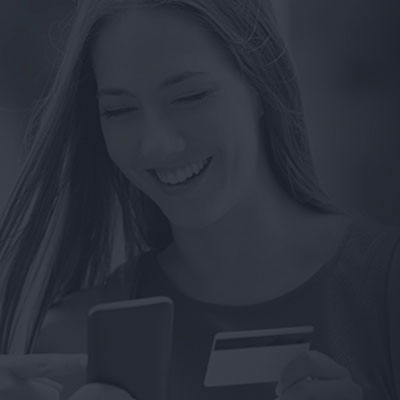
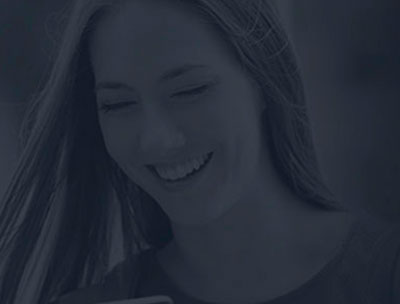
pagina homolga, alterações home

diff --git a/homologa.html b/homologa.html
@@ -19,7 +19,7 @@
 
 
 
-    <title>Cappta</title>
+    <title>Homologa</title>
 </head>
 
 <body>
@@ -85,7 +85,7 @@
                             <div class="dropdown-menu" aria-labelledby="navbarDropdown">
                                 <a class="dropdown-item ml-2" href="portal-de-vendas.html">Portal de vendas</a>
                                 <a class="dropdown-item ml-2" href="reduzir-taxas.html">Redução de taxas</a>
-                                <a class="dropdown-item ml-2" href="homologa.html">Homologue seu software</a>
+                                <a class="dropdown-item ml-2" href="#">Homologue seu software</a>
                                 <a class="dropdown-item ml-2" href="ativa.html">Ativação de Bandeiras</a>
                                 <a class="dropdown-item ml-2" href="amigo.html">Amigo Cappta Amigo</a>
                             </div>
@@ -173,7 +173,7 @@
                                 <a class="dropdown-item" href="reduzir-taxas.html"><i class="fas fa-caret-right mr-3 text-success"></i>Redução
                                     de taxas</a>
 
-                                <a class="dropdown-item" href="homologa.html"><i class="fas fa-caret-right mr-3 text-success"></i>Homologue
+                                <a class="dropdown-item" href="#"><i class="fas fa-caret-right mr-3 text-success"></i>Homologue
                                     seu software</a>
 
                                 <a class="dropdown-item" href="ativa.html"><i class="fas fa-caret-right mr-3 text-success"></i>Ativação
@@ -214,165 +214,132 @@
         </nav>
 
     </header>
-
     <main>
-
-        <section class="bg-dark" style="background-image: url('images/bg-video.jpg'); background-size: cover; background-attachment: fixed; background-position: left;">
-            <div class="container">
+        <section class="bg-dark" style="background-image: url('images/slider-homologa-1.jpg'); background-size: cover; background-attachment: fixed; background-position: left;">
+            <div class="container" style="padding: 100px 20px;">
                 <div class="row">
                     <div class="col-lg-5 text-left text-md-center text-lg-left my-auto" data-aos="fade-up" data-aos-duration="600" style="padding: 100px 20px;">
-                        <h1 class="text-white">Soluções integradas de pagamento</h1>
-                        <p class="lead text-white mb-4 mt-4">Capture suas vendas em cartão com a empresa que mudou o
-                            mercado!</p>
+                        <h1 class="text-white">Homologue seu Software</h1>
+                        <p class="lead text-white mb-4 mt-4">A integração mais rápida do mercado!</p>
                         <a class="btn btn-success">Saiba mais</a>
 
                     </div>
-                    <div class="offset-lg-1 col-lg-5 text-left text-md-center text-lg-left d-none d-lg-flex flex-lg-column" data-aos="fade-left" data-aos-duration="600" style="padding-top: 120px;">
-                        <img src="images/representante.png" class="img-fluid">
-                    </div>
                 </div>
             </div>
-
         </section>
 
-        <section id="menu-servicos">
+        <section>
             <div class="container">
-                <div class="col-lg-12">
-                    <div class="menu-float-servicos" data-aos="fade-down" data-aos-anchor-placement="top-bottom"
-                        data-aos-duration="600">
-                        <div class="card bg-success d-none d-md-flex">
-                            <div class="card-body">
-                                <div class="row">
-                                    <div class="col-lg-3 ml-5 offset-md-0 col-md-12 m-0">
-                                        <h4 class="text-primary">Temos a soluçao ideal para o seu negócio!</h4>
-                                    </div>
-                                    <div class="col-lg-8 d-lg-flex justify-content-lg-end my-auto col-md-12">
-                                        <div class="btn btn-primary mr-1">Faturo abaixo de 50 mil</div>
-                                        <div class="btn btn-primary mr-1">Faturo acima de 50 mil</div>
-                                        <div class="btn btn-primary mr-1">Tenho uma rede de lojas</div>
-                                    </div>
-                                </div>
-
-                            </div>
-                        </div>
+                <div class="row" style="padding: 100px 10px;" data-aos="fade-up" data-aos-duration="600">
+                    <div class="col-lg-12">
+                        <h2 class="mb-4">Eficiência para o seu cliente</h2>
+                        <p><i class="fa fa-check mr-3 text-success"></i>Instalação rápida (instalador integrado)</p>
+                        <p><i class="fa fa-check mr-3 text-success"></i>Conexão independente entre PDVs e Data center</p>
+                        <p><i class="fa fa-check mr-3 text-success"></i>Atualizações automáticas das versões do aplicativo,datacenter e bandeiras e operadoras.</p>
+                        <p><i class="fa fa-check mr-3 text-success"></i>Suporte integrado ao aplicativo.</p>
+                        <p><i class="fa fa-check mr-3 text-success"></i>Conciliação via portal ou API</p>
+                        <p><i class="fa fa-check mr-3 text-success"></i>E muitos outros diferenciais.</p>
                     </div>
                 </div>
             </div>
         </section>
 
-        <section id="intro" class="bg-light">
-            <div class="container d-flex flex-row align-items-center " style="padding: 150px 20px;">
-                <div id="carousel1" class="owl-carousel owl-theme">
-                    <div class="card-item" data-aos="fade-up" data-aos-duration="600">
-                        <div class="row">
-                            <div class="offset-lg-1 col-lg-4 offset-md-2 col-md-8 text-center text-lg-left text-md-center  my-auto order-2 order-md-2 order-lg-1">
-                                <h3 class="card-title text-primary mt-4">Quem somos</h3>
-                                <p class="card-text">Automatize as vendas em cartão, facilite a sua conciliação e
-                                    economize tempo na hora de fechar o caixa!</p>
-                                <a href="#" class="btn btn-success align-items-md-center">Saiba mais</a>
-                            </div>
-                            <div class=" offset-lg-1 col-lg-6 offset-md-2 col-md-8 my-auto order-md-1 order-lg-2 d-block d-md-block d-lg-block order-1 order-md-1 order-lg-2">
-                                <img src="images/intro-img.jpg" class="img-fluid">
-                            </div>
-                        </div>
+        <section class="bg-light">
+            <div class="container">
+                <div class="row" style="padding: 100px 0;" data-aos="fade-up" data-aos-duration="600">
+                    <div class="offset-lg-2 col-lg-8 text-center mb-3">
+                        <h2 class="mb-3 text-primary">Infraestrutura Cappta</h2>
+                        <p>Nossa Tecnologia foi desenhada para que o parceiro não precise para administrar seus clientes de meios de pagamento.</p>
                     </div>
-
-                    <div class="card-item" data-aos="fade-up" data-aos-duration="600">
-                        <div class="row">
-                            <div class="offset-lg-1 col-lg-4 offset-md-2 col-md-8 my-auto text-lg-left text-md-center order-2 order-md-2 order-lg-1">
-                                <h3 class="card-title text-primary mt-4">O que fazemos</h3>
-                                <p class="card-text">Automatize as vendas em cartão, facilite a sua conciliação e
-                                    economize tempo na hora de fechar o caixa!</p>
-                                <a href="#" class="btn btn-success align-items-md-center">Saiba mais</a>
-                            </div>
-                            <div class=" offset-lg-1 col-lg-6 offset-md-2 col-md-8 my-auto order-md-1 order-lg-2 d-block d-md-block d-lg-block order-1 order-md-1 order-lg-2">
-                                <img src="images/intro-img2.jpg" class="img-fluid">
-                            </div>
-                        </div>
+                    <div class="offset-1 col-10 d-lg-flex d-md-none d-none">
+                        <img src="images/fluxo-servidores.png" class="img-fluid" alt="fluxo">
                     </div>
-
-                    <div class="card-item" data-aos="fade-up" data-aos-duration="600">
-                        <div class="row">
-                            <div class="offset-lg-1 col-lg-4 offset-md-2 col-md-8 my-auto text-md-center text-lg-left order-2 order-md-2 order-lg-1">
-                                <h3 class="card-title text-primary mt-4">Em que acreditamos</h3>
-                                <p class="card-text">Automatize as vendas em cartão, facilite a sua conciliação e
-                                    economize tempo na hora de fechar o caixa!</p>
-                                <a href="#" class="btn btn-success align-items-md-center">Saiba mais</a>
-                            </div>
-                            <div class=" offset-lg-1 col-lg-6 offset-md-2 col-md-8 my-auto order-md-1 order-lg-2 d-block d-md-block d-lg-block order-1 order-md-1 order-lg-2">
-                                <img src="images/intro-img3.jpg" class="img-fluid">
-                            </div>
-                        </div>
+                    <div class="col-12 d-lg-none d-md-none d-flex">
+                        <img src="images/fluxo-servidores-mobile.png" class="img-fluid mx-auto">
                     </div>
-
                 </div>
             </div>
         </section>
 
-        <section id="servicos" class="bg-success">
+        <section style="background: #eeeeee">
+                <div class="container">
+                    <div class="row" style="padding: 80px 10px;">
+                        <div class="col-lg-5 mb-5 text-center text-lg-left" data-aos="fade-up" data-aos-duration="600">
+                            <h2 class="mb-4 text-primary">Um hub de soluções</h2>
+                            <p>Agregue mais valor ao seu software</p>
 
+                            <h2 class="mb-4 text-primary">Tem uma grande ideia?</h2>
+                            <p>Estamos sempre abertos a novos projetos que tragam mais eficiência a gestão do varejista!</p>
+                        </div>
+                        <div class="offset-lg-1 col-lg-6" data-aos="fade-up" data-aos-duration="600">
+                            <img src="images/fluxo-automação.png" class="img-fluid">
+                        </div>
+                    </div>
+                </div>
         </section>
 
         <section id="depoimentos" style="background-image: url('images/bg-depo.jpg'); background-size: cover;background-attachment: fixed; background-position: left top;"
-            data-aos="fade-up" data-aos-duration="600">
-            <div class="container">
-                <div class="row d-flex" style="padding: 100px 20px;">
-                    <div class="col-lg-5 order-lg-1 order-2">
-                        <i class="fas fa-3x fa-award text-success mb-3"></i>
-                        <h2 class="text-white mb-3">Experiência de quem <br>usa Cappta</h2>
-                        <p class="text-white font-italic">"Escolhemos a Cappta por uma questão de praticidade e boa reputação."
-                        <span class="mb-3">Vinicius - Empório da Cerveja</span></p>
-                        <div class="btn btn-success mt-3">Veja mais depoimentos</div>
-                    </div>
-                    
-                    <div class="offset-lg-1 col-lg-6 order-lg-2 order-1">
-                        <div class="embed-responsive embed-responsive-16by9 mb-5">
-                            <iframe width="560" height="315" src="https://www.youtube.com/embed/ottFygWcxZ0" frameborder="0" 
-                            allow="autoplay; encrypted-media" allowfullscreen>
-                            </iframe>
-                        </div> 
-                    </div>
+        data-aos="fade-up" data-aos-duration="600">
+        <div class="container">
+            <div class="row d-flex" style="padding: 100px 20px;">
+                <div class="col-lg-5 order-lg-1 order-2">
+                    <i class="fas fa-3x fa-award text-success mb-3"></i>
+                    <h2 class="text-white mb-3">Experiência de quem <br>já integrou</h2>
+                    <p class="text-white font-italic">“e a Cappta foi um parceiro essencial pra fazer o mundo físico conversar com o mundo digital.”
+                            “Tem uma empresa que está olhando para essa digitalização do varejo tanto quanto a gente está!”
+                            
+                    <span class="mb-3">Alessandro Gil – VTEX</span></p>
+                    <div class="btn btn-success mt-3">Assista outros cases</div>
                 </div>
-
+                
+                <div class="offset-lg-1 col-lg-6 order-lg-2 order-1">
+                    <div class="embed-responsive embed-responsive-16by9 mb-5">
+                        <iframe width="560" height="315" src="https://www.youtube.com/embed/ottFygWcxZ0" frameborder="0" 
+                        allow="autoplay; encrypted-media" allowfullscreen>
+                        </iframe>
+                    </div> 
+                </div>
             </div>
+
+        </div>
         </section>
 
         <section id="bandeiras" class="bandeiras bg-light">
-            <div class="container">
-                <div class="row view-bandeiras">
-                    <div class="col-md-12 col-sm-12 d-flex flex-column align-items-center justify-content-center">
-                        <div id="carousel-bandeiras" class="owl-carousel owl-theme">
-                            <div class="img-fluid">
-                                <img src="images/bandeiras/client-1.png">
-                            </div>
-                            <div class="img-fluid">
-                                <img src="images/bandeiras/client-2.png">
-                            </div>
-                            <div class="img-fluid">
-                                <img src="images/bandeiras/client-3.png">
-                            </div>
-                            <div class="img-fluid">
-                                <img src="images/bandeiras/client-4.png">
-                            </div>
-                            <div class="img-fluid">
-                                <img src="images/bandeiras/client-5.png">
-                            </div>
-                            <div class="img-fluid">
-                                <img src="images/bandeiras/client-6.png">
-                            </div>
-                            <div class="img-fluid">
-                                <img src="images/bandeiras/client-1.png">
-                            </div>
-                            <div class="img-fluid">
-                                <img src="images/bandeiras/client-2.png">
-                            </div>
-                            <div class="img-fluid">
-                                <img src="images/bandeiras/client-3.png">
+                <div class="container">
+                    <div class="row view-bandeiras">
+                        <div class="col-md-12 col-sm-12 d-flex flex-column align-items-center justify-content-center">
+                            <div id="carousel-bandeiras" class="owl-carousel owl-theme">
+                                <div class="img-fluid">
+                                    <img src="images/bandeiras/client-1.png">
+                                </div>
+                                <div class="img-fluid">
+                                    <img src="images/bandeiras/client-2.png">
+                                </div>
+                                <div class="img-fluid">
+                                    <img src="images/bandeiras/client-3.png">
+                                </div>
+                                <div class="img-fluid">
+                                    <img src="images/bandeiras/client-4.png">
+                                </div>
+                                <div class="img-fluid">
+                                    <img src="images/bandeiras/client-5.png">
+                                </div>
+                                <div class="img-fluid">
+                                    <img src="images/bandeiras/client-6.png">
+                                </div>
+                                <div class="img-fluid">
+                                    <img src="images/bandeiras/client-1.png">
+                                </div>
+                                <div class="img-fluid">
+                                    <img src="images/bandeiras/client-2.png">
+                                </div>
+                                <div class="img-fluid">
+                                    <img src="images/bandeiras/client-3.png">
+                                </div>
                             </div>
                         </div>
                     </div>
                 </div>
-            </div>
         </section>
     </main>
 
